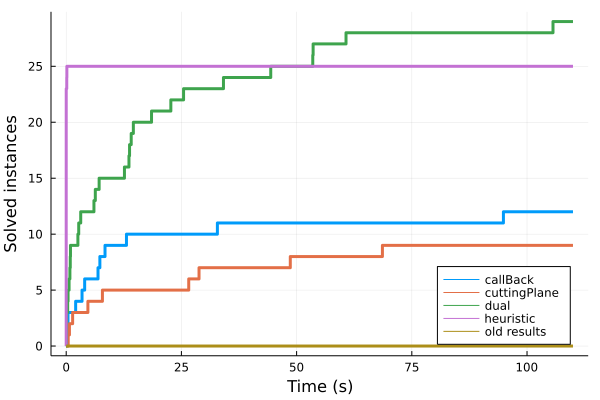
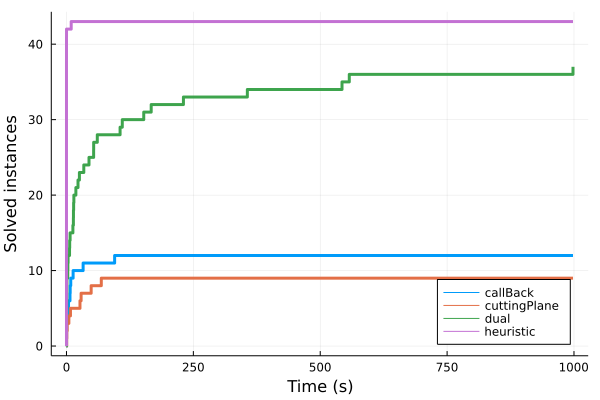
diagram and results

diff --git a/resultsArray.tex b/resultsArray.tex
@@ -2,71 +2,75 @@
 \begin{document}
 \begin{center}
 \renewcommand{\arraystretch}{1.4} 
-\begin{tabular}{lccccccccccc}
+\begin{tabular}{lccccccccc}
 	\hline
- & \multicolumn{2}{c}{\textbf{callBack}} & \multicolumn{2}{c}{\textbf{cuttingPlane}} & \multicolumn{2}{c}{\textbf{dual}} & \multicolumn{2}{c}{\textbf{heuristic}} & \multicolumn{2}{c}{\textbf{old results}}\\
-\textbf{Instance}  & \textbf{Temps (s)} & \textbf{GAP} & \textbf{Temps (s)} & \textbf{GAP} & \textbf{Temps (s)} & \textbf{GAP} & \textbf{Temps (s)} & \textbf{GAP} & \textbf{Temps (s)} & \textbf{GAP} & \textbf{PR} \\\hline
+ & \multicolumn{2}{c}{\textbf{callBack}} & \multicolumn{2}{c}{\textbf{cuttingPlane}} & \multicolumn{2}{c}{\textbf{dual}} & \multicolumn{2}{c}{\textbf{heuristic}}\\
+\textbf{Instance}  & \textbf{Temps (s)} & \textbf{GAP} & \textbf{Temps (s)} & \textbf{GAP} & \textbf{Temps (s)} & \textbf{GAP} & \textbf{Temps (s)} & \textbf{GAP} & \textbf{PR} \\\hline
 
-20\_BAY & 0.39 & 7.14\% & 1.4 & 7.14\% & 0.08 & 0.0 & 0.0 & 0.0\% & - & - 
- & - \\
-20\_COL & 0.18 & 0.0\% & 0.7 & 0.0\% & 0.09 & 0.0 & 0.0 & 0.52\% & - & - 
- & - \\
-20\_NY & 0.1 & 0.0\% & 0.44 & 0.0\% & 0.08 & 0.0 & 0.0 & 0.48\% & - & - 
- & - \\
-40\_NY & 3.44 & 0.0\% & 68.62 & 0.0\% & 0.4 & 0.0 & 0.0 & 0.4\% & - & - 
- & - \\
-40\_BAY & 2.05 & 1.72\% & 7.86 & 1.72\% & 0.32 & 0.0 & 0.0 & 0.0\% & - & - 
- & - \\
-40\_COL & 7.31 & 6.65\% & 100.42 & 0.0\% & 0.62 & 0.0 & 0.0 & 1.66\% & - & - 
- & - \\
-60\_BAY & 6.9 & 22.92\% & 28.83 & 22.92\% & 0.88 & 0.0 & 0.0 & 0.0\% & - & - 
- & - \\
-60\_COL & 4.01 & 12.64\% & 4.71 & 12.64\% & 0.8 & 0.0 & 0.0 & 0.0\% & - & - 
- & - \\
-60\_NY & 8.43 & 0.0\% & 48.63 & 0.0\% & 0.93 & 0.0 & 0.0 & 1.09\% & - & - 
- & - \\
-80\_BAY & 32.81 & 3.56\% & 100.34 & 0.0\% & 2.72 & 0.0 & 0.0 & 4.56\% & - & - 
- & - \\
-80\_NY & 94.88 & 5.91\% & 101.45 & 0.0\% & 3.15 & 0.0 & 0.0 & 7.11\% & - & - 
- & - \\
-80\_COL & 13.08 & 0.0\% & 26.59 & 0.0\% & 2.54 & 0.0 & 0.0 & 1.45\% & - & - 
- & - \\
-100\_NY & 100.43 &  100\%  & 104.11 & 0.0\% & 6.02 & 0.0 & 0.0 &  100\%  & - & - 
- & - \\
-100\_BAY & 100.87 &  100\%  & 101.41 & 0.0\% & 6.32 & 0.0 & 0.14 & 10.67\% & - & - 
- & - \\
-100\_COL & 100.42 &  100\%  & 103.92 & 7.41\% & 7.15 & 0.0 & 0.0 & 0.0\% & - & - 
- & - \\
-120\_NY & 101.01 &  100\%  & 101.5 & 0.0\% & 14.11 & 0.0 & 0.0 &  100\%  & - & - 
- & - \\
-120\_COL & 26.66 &  100\%  & 106.23 & 0.0\% & 12.64 & 0.0 & 0.0 &  100\%  & - & - 
- & - \\
-120\_BAY & 100.66 & 0.0\% & 100.25 & 0.33\% & 14.57 & 0.0 & 0.0 & 15.55\% & - & - 
- & - \\
-140\_NY & 100.19 & 0.0\% & 101.34 & 1.43\% & 13.75 & 3.718353186619065e-5 & 0.0 & 7.44\% & - & - 
- & - \\
-140\_BAY & 101.63 & 0.0\% & 100.61 & 1.75\% & 18.52 & 0.0 & 0.01 & 8.54\% & - & - 
- & - \\
-140\_COL & 101.7 &  100\%  & 100.88 & 0.0\% & 13.62 & 0.0 & 0.0 & 3.9\% & - & - 
- & - \\
-160\_COL & 102.95 &  100\%  & 107.16 & 0.0\% & 22.71 & 0.0 & 0.0 & 5.94\% & - & - 
- & - \\
-160\_NY & 102.84 &  100\%  & 101.35 & 0.0\% & 34.13 & 0.0 & 0.0 & 12.51\% & - & - 
- & - \\
-160\_BAY & 103.32 &  100\%  & 105.32 & 0.0\% & 25.47 & 0.0 & 0.12 & 15.74\% & - & - 
- & - \\
-180\_BAY & 101.85 & 0.0\% & 104.82 & 0.0\% & 109.97 & 0.0 & 0.01 & 18.27\% & - & - 
- & - \\
-180\_COL & 104.74 &  100\%  & 119.61 & 0.0\% & 60.72 & 0.0 & 0.01 &  100\%  & - & - 
- & - \\
-180\_NY & 105.06 &  100\%  & 103.8 & 0.0\% & 105.64 & 0.0 & 0.01 & 12.61\% & - & - 
- & - \\
-200\_COL & 108.11 &  100\%  & 102.95 & 0.0\% & 53.5 & 0.0 & 0.01 &  100\%  & - & - 
- & - \\
-200\_NY & 105.8 & 0.0\% & 105.33 & 2.26\% & 44.39 & 0.0 & 0.01 & 11.07\% & - & - 
- & - \\
-200\_BAY & 105.3 & 0.0\% & 106.83 & 0.0\% & 53.58 & 0.0 & 0.01 & 18.39\% & - & - 
- & - \\
+20\_BAY & 0.39 & 7.14\% & 1.4 & 7.14\% & 0.08 & 0.0 & 0.0 & 0.0\% & - \\
+20\_COL & 0.18 & 0.0\% & 0.7 & 0.0\% & 0.09 & 0.0 & 0.0 & 0.52\% & - \\
+20\_NY & 0.1 & 0.0\% & 0.44 & 0.0\% & 0.08 & 0.0 & 0.0 & 0.48\% & - \\
+40\_BAY & 2.05 & 1.72\% & 7.86 & 1.72\% & 0.32 & 0.0 & 0.0 & 0.0\% & - \\
+40\_NY & 3.44 & 0.0\% & 68.62 & 0.0\% & 0.4 & 0.0 & 0.0 & 0.4\% & - \\
+40\_COL & 7.31 & 6.65\% & 100.42 & 0.0\% & 0.62 & 0.0 & 0.0 & 1.66\% & - \\
+60\_COL & 4.01 & 12.64\% & 4.71 & 12.64\% & 0.8 & 0.0 & 0.0 & 0.0\% & - \\
+60\_NY & 8.43 & 0.0\% & 48.63 & 0.0\% & 0.93 & 0.0 & 0.0 & 1.09\% & - \\
+60\_BAY & 6.9 & 22.92\% & 28.83 & 22.92\% & 0.88 & 0.0 & 0.0 & 0.0\% & - \\
+80\_NY & 94.88 & 5.91\% & 101.45 & 0.0\% & 3.15 & 0.0 & 0.0 & 7.11\% & - \\
+80\_BAY & 32.81 & 3.56\% & 100.34 & 0.0\% & 2.72 & 0.0 & 0.0 & 4.56\% & - \\
+80\_COL & 13.08 & 0.0\% & 26.59 & 0.0\% & 2.54 & 0.0 & 0.0 & 1.45\% & - \\
+100\_NY & 100.43 &  100\%  & 104.11 & 0.0\% & 6.02 & 0.0 & 0.0 &  100\%  & - \\
+100\_BAY & 100.87 &  100\%  & 101.41 & 0.0\% & 6.32 & 0.0 & 9.32 & 10.67\% & - \\
+100\_COL & 100.42 &  100\%  & 103.92 & 7.41\% & 7.15 & 0.0 & 0.0 & 0.0\% & - \\
+120\_NY & 101.01 &  100\%  & 101.5 & 0.0\% & 14.11 & 0.0 & 0.0 &  100\%  & - \\
+120\_COL & 26.66 &  100\%  & 106.23 & 0.0\% & 12.64 & 0.0 & 0.0 &  100\%  & - \\
+120\_BAY & 100.66 & 0.0\% & 100.25 & 0.33\% & 14.57 & 0.0 & 0.0 & 15.55\% & - \\
+140\_BAY & 101.63 & 0.0\% & 100.61 & 1.75\% & 18.52 & 0.0 & 0.0 & 8.54\% & - \\
+140\_NY & 100.19 & 0.0\% & 101.34 & 1.43\% & 13.75 & 3.718353186619065e-5 & 0.0 & 7.44\% & - \\
+140\_COL & 101.7 &  100\%  & 100.88 & 0.0\% & 13.62 & 0.0 & 0.0 & 3.9\% & - \\
+160\_NY & 102.84 &  100\%  & 101.35 & 0.0\% & 34.13 & 0.0 & 0.0 & 12.51\% & - \\
+160\_COL & 102.95 &  100\%  & 107.16 & 0.0\% & 22.71 & 0.0 & 0.0 & 5.94\% & - \\
+160\_BAY & 103.32 &  100\%  & 105.32 & 0.0\% & 25.47 & 0.0 & 0.09 & 15.74\% & - \\
+180\_NY & 105.06 &  100\%  & 103.8 & 0.0\% & 105.64 & 0.0 & 0.0 & 12.61\% & - \\
+180\_COL & 104.74 &  100\%  & 119.61 & 0.0\% & 60.72 & 0.0 & 0.0 &  100\%  & - \\
+180\_BAY & 101.85 & 0.0\% & 104.82 & 0.0\% & 109.97 & 0.0 & 0.0 & 18.27\% & - \\
+200\_NY & 105.8 & 0.0\% & 105.33 & 2.26\% & 44.39 & 0.0 & 0.01 & 11.07\% & - \\
+200\_COL & 108.11 &  100\%  & 102.95 & 0.0\% & 53.5 & 0.0 & 0.0 &  100\%  & - \\
+200\_BAY & 105.3 & 0.0\% & 106.83 & 0.0\% & 53.58 & 0.0 & 0.01 & 18.39\% & - \\
+250\_COL & 116.67 &  100\%  & 119.37 & 0.0\% & 152.24 & 0.0 & 0.01 & 19.88\% & - \\
+250\_BAY & 110.75 & 0.0\% & 100.92 & 0.0\% & 230.44 & 0.0 & 0.01 & 8.51\% & - \\
+250\_NY & 108.59 & 0.0\% & 119.77 & 12.15\% & 166.93 & 3.34615937812501e-5 & 0.01 & 11.89\% & - \\
+300\_NY & 111.99 & 0.0\% & 121.37 & 0.0\% & 427.42 & 100.0 & 0.01 & 22.64\% & - \\
+\hline\end{tabular}
+\end{center}
+\newpage
+\begin{center}
+\renewcommand{\arraystretch}{1.4} 
+\begin{tabular}{lccccccccc}
+	\hline
+ & \multicolumn{2}{c}{\textbf{callBack}} & \multicolumn{2}{c}{\textbf{cuttingPlane}} & \multicolumn{2}{c}{\textbf{dual}} & \multicolumn{2}{c}{\textbf{heuristic}}\\
+\textbf{Instance}  & \textbf{Temps (s)} & \textbf{GAP} & \textbf{Temps (s)} & \textbf{GAP} & \textbf{Temps (s)} & \textbf{GAP} & \textbf{Temps (s)} & \textbf{GAP} & \textbf{PR} \\\hline
+
+300\_BAY & 106.28 & 0.0\% & 123.05 & 0.0\% & 423.52 & 100.0 & 0.01 & 31.61\% & - \\
+300\_COL & 134.7 &  100\%  & 136.68 & 0.0\% & 356.4 & 0.0 & 0.01 & 23.19\% & - \\
+350\_NY & 168.87 & 0.0\% & 154.56 &  100\%  & 557.25 & 0.0 & 0.01 & 17.44\% & - \\
+350\_BAY & 141.12 & 0.0\% & 153.93 &  100\%  & 744.03 & 100.0 & 0.02 & 31.79\% & - \\
+350\_COL & 140.05 & 0.0\% & 153.85 &  100\%  & 542.93 & 0.0 & 0.02 & 17.98\% & - \\
+400\_BAY & 128.08 &  100\%  & 275.76 &  100\%  & 953.58 & 100.0 & 0.03 & 0.0\% & - \\
+400\_NY & 121.62 &  100\%  & 248.98 &  100\%  & 998.07 & 0.0 & 0.02 & 0.0\% & - \\
+400\_COL & 120.27 &  100\%  & 254.93 &  100\%  & 945.43 & 100.0 & 0.02 & 0.0\% & - \\
+450\_NY & 189.73 &  100\%  & 414.5 &  100\%  & - & - 
+ & 0.02 & 0.0\% & - \\
+450\_BAY & 195.6 &  100\%  & 413.35 &  100\%  & - & - 
+ & 0.04 & 0.0\% & - \\
+450\_COL & 201.7 &  100\%  & 419.6 &  100\%  & - & - 
+ & 0.03 & 0.0\% & - \\
+500\_NY & 308.01 &  100\%  & 619.23 &  100\%  & - & - 
+ & 0.02 & 0.0\% & - \\
+500\_BAY & 306.88 &  100\%  & 635.07 &  100\%  & - & - 
+ & 0.04 & 0.0\% & - \\
+500\_COL & 302.56 &  100\%  & 637.69 &  100\%  & - & - 
+ & 0.03 & 0.0\% & - \\
 \hline\end{tabular}
 \end{center}
 

diff --git a/best_solutions.tex b/best_solutions.tex
@@ -9,14 +9,14 @@
 20\_BAY & [15, 4, 13, 5, 17] & 14311\\
 20\_COL & [1, 2, 3, 4, 5, ] & 7077\\
 20\_NY & [1, 2, 3, 4, ] & 9454\\
-40\_NY & [1, 2, 3, 4, 5, 6, ] & 17330\\
 40\_BAY & [29, 21, 14, 30, 10, 40] & 12451\\
+40\_NY & [1, 2, 3, 4, 5, 6, ] & 17330\\
 40\_COL & [1, 2, 3, 4, 5, 6, ] & 14120\\
-60\_BAY & [21, 14, 4, 34, 44, 59] & 8651\\
 60\_COL & [53, 52, 56, 58, 51, 44, 17, 42, 27, 60] & 21230\\
 60\_NY & [1, 2, 3, 4, 5, 6, 7, 8, ] & 31776\\
-80\_BAY & [1, 2, 3, 4, 5, 6, 7, ] & 10484\\
+60\_BAY & [21, 14, 4, 34, 44, 59] & 8651\\
 80\_NY & [1, 2, 3, 4, 5, 6, 7, 8, ] & 30003\\
+80\_BAY & [1, 2, 3, 4, 5, 6, 7, ] & 10484\\
 80\_COL & [1, 2, 3, 4, 5, 6, 7, 8, ] & 14277\\
 100\_NY & [] & 30800\\
 100\_BAY & [1, 2, 3, 4, 5, 6, 7, ] & 9921\\
@@ -24,18 +24,44 @@
 120\_NY & [] & 22794\\
 120\_COL & [] & 23427\\
 120\_BAY & [1, 2, 3, 4, 5, 6, 7, 8, ] & 10699\\
-140\_NY & [1, 2, 3, 4, 5, 6, 7, 8, 9, 10, ] & 29491\\
 140\_BAY & [1, 2, 3, 4, 5, 6, 7, 8, 9, ] & 13926\\
+140\_NY & [1, 2, 3, 4, 5, 6, 7, 8, 9, 10, ] & 29491\\
 140\_COL & [1, 2, 3, 4, 5, 6, 7, 8, 9, 10, 11, ] & 23198\\
-160\_COL & [1, 2, 3, 4, 5, 6, 7, 8, 9, 10, 11, ] & 22760\\
 160\_NY & [1, 2, 3, 4, 5, 6, 7, 8, 9, 10, 11, 12, ] & 22257\\
+160\_COL & [1, 2, 3, 4, 5, 6, 7, 8, 9, 10, 11, ] & 22760\\
 160\_BAY & [1, 2, 3, 4, 5, 6, 7, 8, 9, ] & 11730\\
-180\_BAY & [1, 2, 3, 4, 5, 6, 7, 8, 9, ] & 11502\\
-180\_COL & [] & 30562\\
 180\_NY & [1, 2, 3, 4, 5, 6, 7, 8, 9, 10, 11, 12, ] & 22257\\
-200\_COL & [] & 26280\\
+180\_COL & [] & 30562\\
+180\_BAY & [1, 2, 3, 4, 5, 6, 7, 8, 9, ] & 11502\\
 200\_NY & [1, 2, 3, 4, 5, 6, 7, 8, 9, 10, 11, ] & 27024\\
+200\_COL & [] & 26280\\
 200\_BAY & [1, 2, 3, 4, 5, 6, 7, 8, 9, ] & 11502\\
+250\_COL & [1, 2, 3, 4, 5, 6, 7, 8, 9, 10, 11, 12, 13, ] & 25891\\
+250\_BAY & [1, 2, 3, 4, 5, 6, 7, 8, 9, 10, ] & 17437\\
+250\_NY & [1, 2, 3, 4, 5, 6, 7, 8, 9, 10, 11, 12, 13, 14, ] & 30317\\
+300\_NY & [1, 2, 3, 4, 5, 6, 7, 8, 9, 10, 11, 12, 13, 14, ] & 28304\\
+\hline\end{tabular}
+\end{center}
+\newpage
+\begin{center}
+\renewcommand{\arraystretch}{1.4} 
+\begin{tabular}{llr}\hline
+\textbf{Instance} & \textbf{Solution} & \textbf{Valeur} \\\hline
+
+300\_BAY & [1, 2, 3, 4, 5, 6, 7, 8, 9, 10, 11, ] & 16557\\
+300\_COL & [1, 2, 3, 4, 5, 6, 7, 8, 9, 10, 11, 12, 13, 14, ] & 26691\\
+350\_NY & [1, 2, 3, 4, 5, 6, 7, 8, 9, 10, 11, 12, 13, 14, 15, 16, 17, 18, ] & 34082\\
+350\_BAY & [1, 2, 3, 4, 5, 6, 7, 8, 9, 10, 11, ] & 16557\\
+350\_COL & [1, 2, 3, 4, 5, 6, 7, 8, 9, 10, 11, 12, 13, ] & 23875\\
+400\_BAY & [269, 160, 289, 130, 136, 381, 393, 358, 224, 321, 317, 267, 249, 382] & 30525\\
+400\_NY & [242, 133, 210, 79, 301, 174, 183, 26, 363, 240, 353, 361, 351, 370, 347, 352, 349] & 35809\\
+400\_COL & [83, 189, 45, 312, 85, 12, 2, 23, 239, 25, 317, 261, 346, 260, 389] & 37019\\
+450\_NY & [279, 149, 275, 117, 432, 433, 183, 364, 108, 407, 439, 335, 351, 252, 450, 373, 448, 431] & 44215\\
+450\_BAY & [269, 260, 289, 262, 355, 381, 393, 358, 383, 239, 230, 267, 422, 382] & 30558\\
+450\_COL & [83, 189, 396, 312, 85, 55, 2, 1, 404, 25, 317, 301, 281, 352, 389] & 37047\\
+500\_NY & [463, 461, 434, 360, 239, 335, 353, 240, 108, 187, 243, 334, 301, 117, 381, 490, 393, 458, 488] & 47742\\
+500\_BAY & [466, 488, 160, 289, 84, 418, 287, 393, 358, 224, 478, 465, 481] & 32468\\
+500\_COL & [83, 189, 311, 217, 267, 55, 2, 39, 453, 134, 222, 261, 346, 352, 389] & 37074\\
 \hline\end{tabular}
 \end{center}
 
